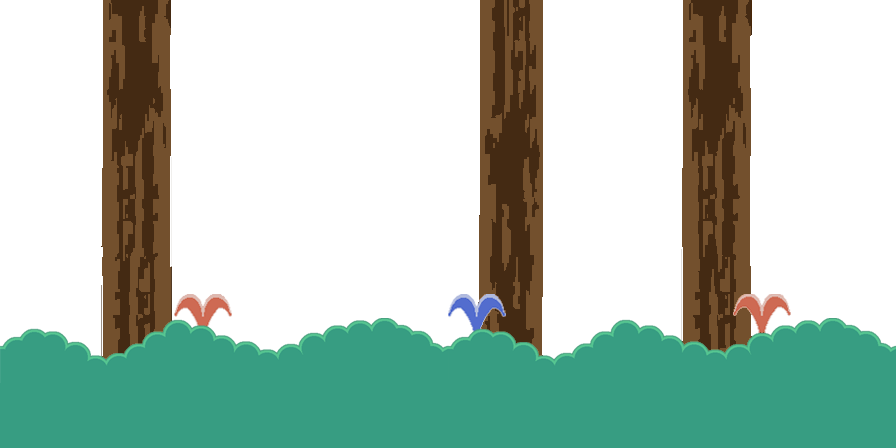
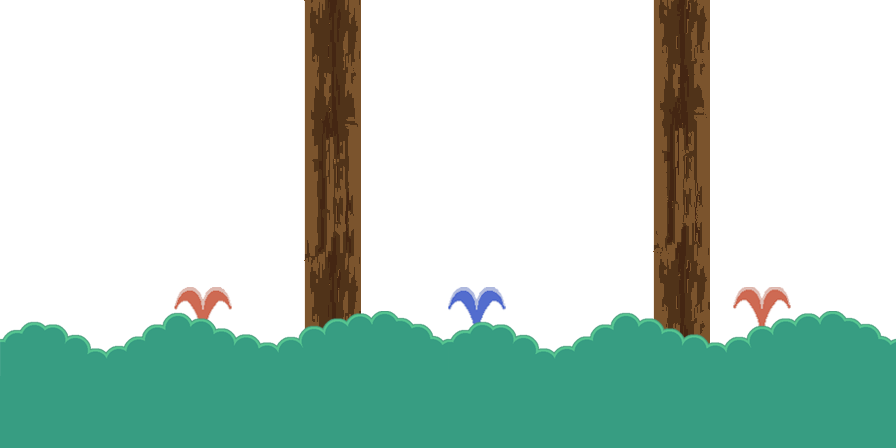
changements

Changed region(s): [[0.0, 0.0, 1.0, 0.8125]]

diff --git a/src/scenes/TableauScrolling.js b/src/scenes/TableauScrolling.js
@@ -8,7 +8,9 @@ class TableauScrolling extends Tableau{
         // Différents plans
         this.load.image('ciel', 'assets/ciel.png');
         this.load.image('plan-buisson', 'assets/plan-buisson.png');
+        this.load.image('lumiere', 'assets/lumiere.png');
         this.load.image('plan-troncs1', 'assets/plan-troncs1.png');
+        this.load.image('lumiere2', 'assets/lumiere2.png');
         this.load.image('plan-troncs2', 'assets/plan-troncs2.png');
         this.load.image('plan-troncs3', 'assets/plan-troncs3.png');
         this.load.image('plan-troncs4', 'assets/plan-troncs4.png');
@@ -150,6 +152,16 @@ class TableauScrolling extends Tableau{
         this.plantroncs2.alpha=1;
         //this.sky.tileScaleX=this.sky.tileScaleY=0.8;
 
+        this.lumiere2=this.add.tileSprite(
+            0,
+            0,
+            this.sys.canvas.width,
+            this.sys.canvas.height,
+            'lumiere2'
+            );
+        this.lumiere2.setScrollFactor(0);
+        this.lumiere2.setOrigin(0,0);
+        this.lumiere2.alpha=1;
 
         this.plantroncs1=this.add.tileSprite(
             0,
@@ -161,6 +173,17 @@ class TableauScrolling extends Tableau{
         this.plantroncs1.setScrollFactor(0);
         this.plantroncs1.setOrigin(0,0);
         this.plantroncs1.alpha=1;
+
+        this.lumiere=this.add.tileSprite(
+            0,
+            0,
+            this.sys.canvas.width,
+            this.sys.canvas.height,
+            'lumiere'
+            );
+        this.lumiere.setScrollFactor(0);
+        this.lumiere.setOrigin(0,0);
+        this.lumiere.alpha=1;
 
         this.planbuisson=this.add.tileSprite(
             0,
@@ -183,6 +206,7 @@ class TableauScrolling extends Tableau{
         this.planfeuilleshaut.setScrollFactor(0);
         this.planfeuilleshaut.setOrigin(0,0);
         this.planfeuilleshaut.alpha=1;
+        this.planfeuilleshaut.setDepth(11);
 
         //Profondeur des élements
         this.platforms.setDepth(10)
@@ -197,22 +221,28 @@ class TableauScrolling extends Tableau{
         this.ciel.tilePositionY=this.cameras.main.scrollY*0.2;
         //le deuxième ciel se déplace moins vite pour accentuer l'effet
 
-        this.plantroncs4.tilePositionX=this.cameras.main.scrollX*0.2+300;
+        this.plantroncs4.tilePositionX=this.cameras.main.scrollX*0.2/*+300*/;
         this.plantroncs4.tilePositionY=this.cameras.main.scrollY*0.5;
 
-        this.plantroncs3.tilePositionX=this.cameras.main.scrollX*0.3+300;
+        this.plantroncs3.tilePositionX=this.cameras.main.scrollX*0.3;
         this.plantroncs3.tilePositionY=this.cameras.main.scrollY*0.5;
 
-        this.plantroncs2.tilePositionX=this.cameras.main.scrollX*0.5+300;
+        this.plantroncs2.tilePositionX=this.cameras.main.scrollX*0.5+100;
         this.plantroncs2.tilePositionY=this.cameras.main.scrollY*0.5;
 
-        this.plantroncs1.tilePositionX=this.cameras.main.scrollX*0.6+500;
+        this.lumiere2.tilePositionX=this.cameras.main.scrollX*0.6;
+        this.lumiere2.tilePositionY=this.cameras.main.scrollY*0.1-15;
+
+        this.plantroncs1.tilePositionX=this.cameras.main.scrollX*0.7;
         this.plantroncs1.tilePositionY=this.cameras.main.scrollY*0.1+30;
 
-        this.planbuisson.tilePositionX=this.cameras.main.scrollX*0.8+500;
+        this.lumiere.tilePositionX=this.cameras.main.scrollX*0.75;
+        this.lumiere.tilePositionY=this.cameras.main.scrollY*0.1-15;
+
+        this.planbuisson.tilePositionX=this.cameras.main.scrollX*0.8;
         this.planbuisson.tilePositionY=this.cameras.main.scrollY*0.1-15;
 
-        this.planfeuilleshaut.tilePositionX=this.cameras.main.scrollX*1+500;
+        this.planfeuilleshaut.tilePositionX=this.cameras.main.scrollX*1;
         this.planfeuilleshaut.tilePositionY=this.cameras.main.scrollY*0.1;
 
     }
